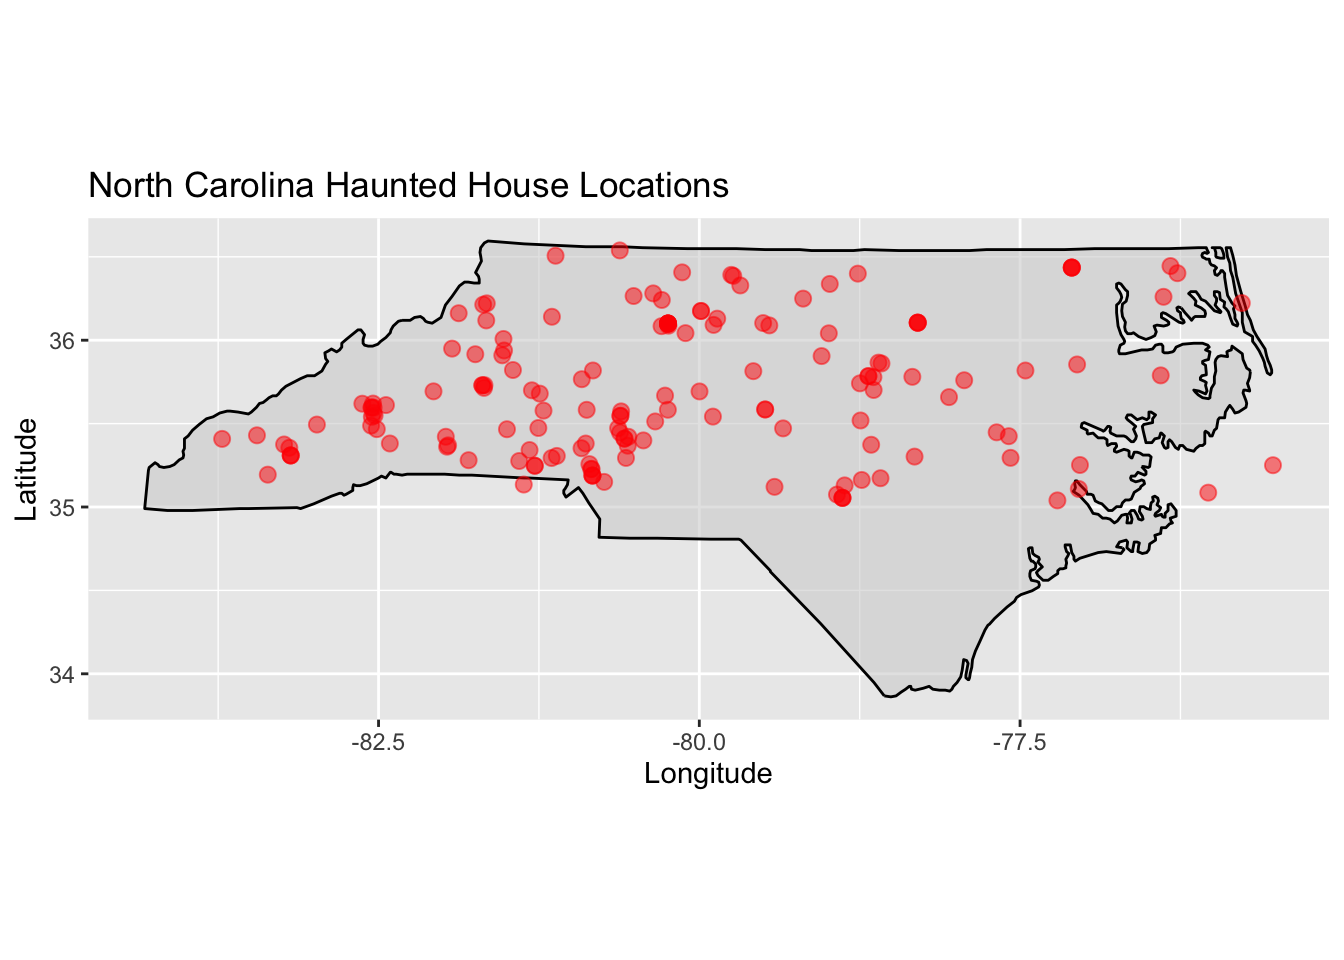
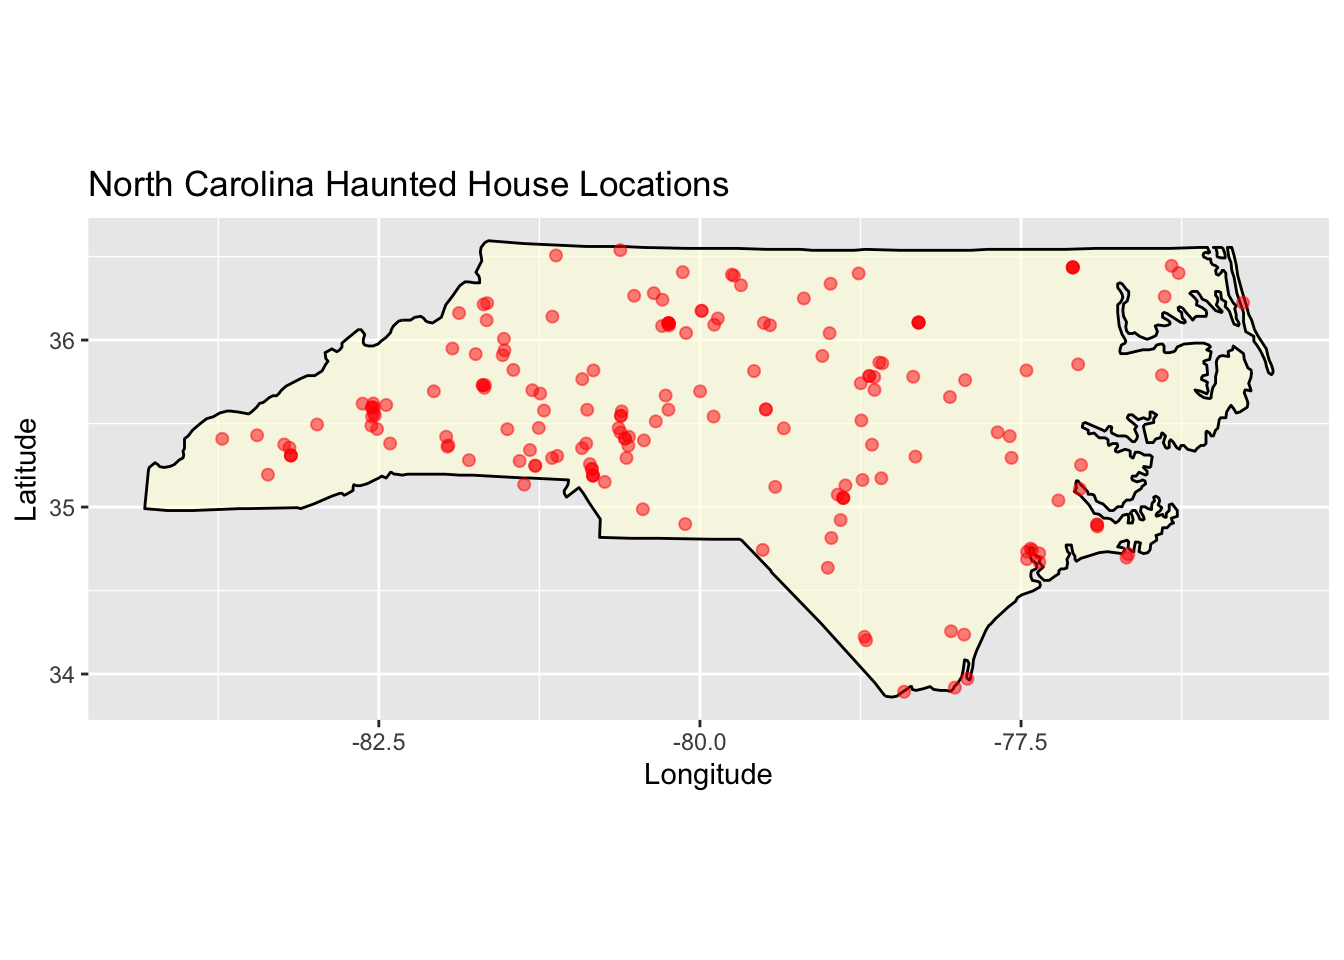
finished portfolio 1!

diff --git a/docs/portfolio1.html b/docs/portfolio1.html
@@ -375,11 +375,13 @@ div.tocify {
 
 
 <pre class="r"><code>##install.packages(&quot;tidytuesdayR&quot;)
-##install.packages(c(&quot;maps&quot;, &quot;ggplot2&quot;))
+##install.packages(c(&quot;sf&quot;, &quot;tigris&quot;, &quot;ggplot2&quot;, &quot;ggmap&quot;))
 
 library(maps)
 library(ggplot2)
 library(tidyverse)
+library(sf)
+library(tigris)
 
 tuesdata &lt;- tidytuesdayR::tt_load(&#39;2023-10-10&#39;)
 haunted_places &lt;- tuesdata$haunted_places</code></pre>
@@ -428,9 +430,9 @@ print(haunted_counts_NC)</code></pre>
 ##  9 Jacksonville                  4
 ## 10 Lenoir                        4
 ## # ℹ 118 more rows</code></pre>
-<pre class="r"><code>## Mean 
+<pre class="r"><code>##Mean 
 mean_hauntedhousesNC &lt;- mean(haunted_counts_NC$num_haunted_houses)
-## Standard deviation 
+##Standard deviation 
 sd_hauntedhousesNC &lt;- sd(haunted_counts_NC$num_haunted_houses)</code></pre>
 <p>Before looking at the houses location visualization, I merged
 Winston-Salem to Winston. After that, I wanted to check which cities in
@@ -447,7 +449,7 @@ top_haunted_cities &lt;- NC_haunted_places %&gt;%
   arrange(desc(num_haunted_houses)) %&gt;%
   slice_head(n = 10)
 
-# Create the bar plot for the top ten cities 
+## Create the bar plot for the top ten cities 
 ggplot(top_haunted_cities, aes(x = reorder(city, num_haunted_houses), y = num_haunted_houses, colour = city, fill = city)) +
   geom_bar(stat = &quot;identity&quot;) +  
   labs(title = &quot;Top 10 Cities with the Most Haunted Houses in North Carolina&quot;,
@@ -458,11 +460,11 @@ ggplot(top_haunted_cities, aes(x = reorder(city, num_haunted_houses), y = num_ha
 </div>
 <div id="visualized-map-of-nc" class="section level3">
 <h3>visualized map of NC</h3>
-<pre class="r"><code># get the basic North Carolina map data
+<pre class="r"><code>## get the basic North Carolina map data
 nc_map &lt;- map_data(&quot;state&quot;)
-# filter for North Carolina
+## filter for North Carolina
 nc_map &lt;- subset(nc_map, region == &quot;north carolina&quot;)
-# get the map plot
+## get the map plot
 ggplot()+
   geom_polygon(data = nc_map, aes(x = long, y = lat, group = group),
                fill = &quot;lightgray&quot;, color = &quot;black&quot;, alpha = 0.6) +
@@ -485,16 +487,17 @@ NC.</p>
 <div id="filter-out-the-outliers-and-refine-the-dataset"
 class="section level3">
 <h3>Filter out the outliers and refine the dataset</h3>
-<pre class="r"><code>##Looking at the graph, I want to filter out the data that are outside of the range of: 37&gt; latitude &gt; 35.
-NC_haunted_places &lt;- NC_haunted_places %&gt;%
-  filter(latitude &gt; 35 &amp; latitude &lt; 37)
+<pre class="r"><code>##Looking at the graph, I want to filter out the data that are outside of the range of: 37&gt; latitude &gt; 33.
+NC_haunted_places_filtered &lt;- NC_haunted_places %&gt;%
+  filter(!(latitude &lt; 35.5 &amp; longitude &gt; -76.25)) %&gt;%
+  filter(latitude &gt; 33 &amp; latitude &lt; 37)
 
 ##Now I will plot the graph again
 ggplot()+
   geom_polygon(data = nc_map, aes(x = long, y = lat, group = group),
-               fill = &quot;lightgray&quot;, color = &quot;black&quot;, alpha = 0.6) +
-  geom_point(data = NC_haunted_places, aes(x = longitude, y = latitude),
-             color = &quot;red&quot;, alpha = 0.5, size = 2.5) +
+               fill = &quot;lightyellow&quot;, color = &quot;black&quot;, alpha = 0.6) +
+  geom_point(data = NC_haunted_places_filtered, aes(x = longitude, y = latitude),
+             color = &quot;red&quot;, alpha = 0.5, size = 1.8) +
    labs(
     title = &quot;North Carolina Haunted House Locations&quot;,
     x = &quot;Longitude&quot;, 
@@ -502,6 +505,78 @@ ggplot()+
   ) +
   coord_fixed(1.3)</code></pre>
 <p><img src="portfolio1_files/figure-html/filter%20outliers-1.png" width="672" /></p>
+<p>Now this plot has shown how the haunted houses are located within NC,
+and we can also see how many of them are close to each other by looking
+at the overlap between the dots.</p>
+</div>
+<div id="winston-salem-haunted-houses" class="section level3">
+<h3>Winston Salem Haunted Houses</h3>
+<pre class="r"><code>##Lastly, I am very interested in where are all the haunted houses located within Winston Salem.
+NC_haunted_places_winston &lt;- NC_haunted_places_filtered %&gt;%
+  mutate(winstonsalem = ifelse(city == &quot;Winston&quot;, &quot;Winston&quot;, &quot;Other&quot;))
+
+##Plot with different colors for Winston-Salem vs. Other
+ggplot() +
+  geom_polygon(data = nc_map, aes(x = long, y = lat, group = group),
+               fill = &quot;lightyellow&quot;, color = &quot;black&quot;, alpha = 0.4) +
+  geom_point(data = NC_haunted_places_winston, 
+             aes(x = longitude, y = latitude, color = winstonsalem),
+             alpha = 0.5, size = 2) +
+  scale_color_manual(values = c(&quot;Winston&quot; = &quot;red&quot;, &quot;Other&quot; = &quot;pink&quot;)) +
+  labs(
+    title = &quot;North Carolina Haunted House Locations&quot;,
+    x = &quot;Longitude&quot;, 
+    y = &quot;Latitude&quot;,
+    color = &quot;Location&quot;
+  ) +
+  coord_fixed(1.3)</code></pre>
+<p><img src="portfolio1_files/figure-html/WS%20haunted%20houses%20graph-1.png" width="672" /></p>
+<pre class="r"><code>##I used ChatGPT to help me to get North Carolina counties data
+nc_counties &lt;- counties(state = &quot;NC&quot;, cb = TRUE, year = 2020)</code></pre>
+<pre><code>##   |                                                                              |                                                                      |   0%  |                                                                              |                                                                      |   1%  |                                                                              |=                                                                     |   1%  |                                                                              |=                                                                     |   2%  |                                                                              |==                                                                    |   2%  |                                                                              |==                                                                    |   3%  |                                                                              |===                                                                   |   4%  |                                                                              |===                                                                   |   5%  |                                                                              |====                                                                  |   5%  |                                                                              |====                                                                  |   6%  |                                                                              |=====                                                                 |   6%  |                                                                              |=====                                                                 |   7%  |                                                                              |=====                                                                 |   8%  |                                                                              |======                                                                |   8%  |                                                                              |=======                                                               |   9%  |                                                                              |=======                                                               |  10%  |                                                                              |=======                                                               |  11%  |                                                                              |========                                                              |  11%  |                                                                              |========                                                              |  12%  |                                                                              |=========                                                             |  12%  |                                                                              |=========                                                             |  13%  |                                                                              |==========                                                            |  14%  |                                                                              |===========                                                           |  15%  |                                                                              |===========                                                           |  16%  |                                                                              |============                                                          |  17%  |                                                                              |=============                                                         |  18%  |                                                                              |==============                                                        |  20%  |                                                                              |===============                                                       |  21%  |                                                                              |================                                                      |  23%  |                                                                              |=================                                                     |  25%  |                                                                              |==================                                                    |  26%  |                                                                              |===================                                                   |  27%  |                                                                              |====================                                                  |  29%  |                                                                              |=====================                                                 |  31%  |                                                                              |======================                                                |  32%  |                                                                              |=======================                                               |  33%  |                                                                              |========================                                              |  35%  |                                                                              |=========================                                             |  35%  |                                                                              |==========================                                            |  37%  |                                                                              |===========================                                           |  38%  |                                                                              |===========================                                           |  39%  |                                                                              |============================                                          |  40%  |                                                                              |=============================                                         |  42%  |                                                                              |==============================                                        |  43%  |                                                                              |===============================                                       |  45%  |                                                                              |================================                                      |  46%  |                                                                              |=================================                                     |  47%  |                                                                              |==================================                                    |  48%  |                                                                              |===================================                                   |  49%  |                                                                              |===================================                                   |  50%  |                                                                              |====================================                                  |  52%  |                                                                              |=====================================                                 |  53%  |                                                                              |======================================                                |  54%  |                                                                              |======================================                                |  55%  |                                                                              |=======================================                               |  56%  |                                                                              |========================================                              |  57%  |                                                                              |========================================                              |  58%  |                                                                              |=========================================                             |  59%  |                                                                              |==========================================                            |  60%  |                                                                              |===========================================                           |  61%  |                                                                              |===========================================                           |  62%  |                                                                              |============================================                          |  62%  |                                                                              |============================================                          |  63%  |                                                                              |=============================================                         |  64%  |                                                                              |=============================================                         |  65%  |                                                                              |==============================================                        |  65%  |                                                                              |==============================================                        |  66%  |                                                                              |===============================================                       |  67%  |                                                                              |===============================================                       |  68%  |                                                                              |================================================                      |  68%  |                                                                              |================================================                      |  69%  |                                                                              |=================================================                     |  70%  |                                                                              |==================================================                    |  72%  |                                                                              |===================================================                   |  72%  |                                                                              |===================================================                   |  73%  |                                                                              |====================================================                  |  74%  |                                                                              |=====================================================                 |  75%  |                                                                              |=====================================================                 |  76%  |                                                                              |======================================================                |  77%  |                                                                              |=======================================================               |  79%  |                                                                              |========================================================              |  80%  |                                                                              |=========================================================             |  82%  |                                                                              |==========================================================            |  83%  |                                                                              |===========================================================           |  85%  |                                                                              |============================================================          |  86%  |                                                                              |=============================================================         |  87%  |                                                                              |=============================================================         |  88%  |                                                                              |==============================================================        |  89%  |                                                                              |===============================================================       |  90%  |                                                                              |================================================================      |  91%  |                                                                              |================================================================      |  92%  |                                                                              |=================================================================     |  93%  |                                                                              |==================================================================    |  94%  |                                                                              |==================================================================    |  95%  |                                                                              |===================================================================   |  95%  |                                                                              |===================================================================   |  96%  |                                                                              |====================================================================  |  97%  |                                                                              |====================================================================  |  98%  |                                                                              |===================================================================== |  98%  |                                                                              |===================================================================== |  99%  |                                                                              |======================================================================|  99%  |                                                                              |======================================================================| 100%</code></pre>
+<pre class="r"><code>##Then I want to filter the Forsyth County, which contains Winston-Salem
+forsyth_county &lt;- nc_counties %&gt;% filter(NAME == &quot;Forsyth&quot;)
+
+
+##I googled the location information of Forsyth County and want to filter the haunted locations inside Forsyth County
+winston_haunted &lt;- NC_haunted_places_filtered %&gt;%
+  filter(latitude &gt; 35.96 &amp; latitude &lt; 36.25 &amp; 
+         longitude &gt; -80.50 &amp; longitude &lt; -80.04)
+
+##Lastly, I am very interested in where are all the haunted houses located within Winston Salem.
+winston_haunted &lt;- winston_haunted %&gt;%
+  mutate(winstonsalem = ifelse(city == &quot;Winston&quot;, &quot;Winston&quot;, &quot;Other&quot;))
+
+##I added Wake Forest location into the dataset because I also want to see how far these haunted houses are from our campus.
+winston_haunted &lt;- winston_haunted %&gt;%
+  add_row(city = &quot;Winston&quot;,
+  latitude = 36.13,
+  longitude = -80.28,
+  country = &quot;United States&quot;,
+  description = &quot;Wake Forest location&quot;,
+  location = &quot;Wake Forest University&quot;,
+  state = &quot;North Carolina&quot;,
+  state_abbrev = &quot;NC&quot;,
+  city_longitude = -80.25444,
+  city_latitude = 36.10396,
+  winstonsalem = &quot;Wake Forest&quot;
+  )
+
+##The plot showing where is Wake Forest campus and the surrounding haunted houses in winston salem and Forsyth county. 
+ggplot() +
+  geom_sf(data = forsyth_county, fill = &quot;lightyellow&quot;, color = &quot;black&quot;, alpha = .5) +
+  geom_point(data = winston_haunted, 
+             aes(x = longitude, y = latitude, color = winstonsalem),
+             alpha = 0.5, size = 4) +
+  scale_color_manual(values = c(&quot;Winston&quot; = &quot;red&quot;, &quot;Other&quot; = &quot;blue&quot;, &quot;Wake Forest&quot; = &quot;gold&quot;)) +
+  labs(
+    title = &quot;North Carolina Haunted House Locations&quot;,
+    x = &quot;Longitude&quot;, 
+    y = &quot;Latitude&quot;,
+    color = &quot;Location&quot;
+  ) +
+  coord_sf()</code></pre>
+<p><img src="portfolio1_files/figure-html/unnamed-chunk-1-1.png" width="672" /></p>
 </div>
 
 
